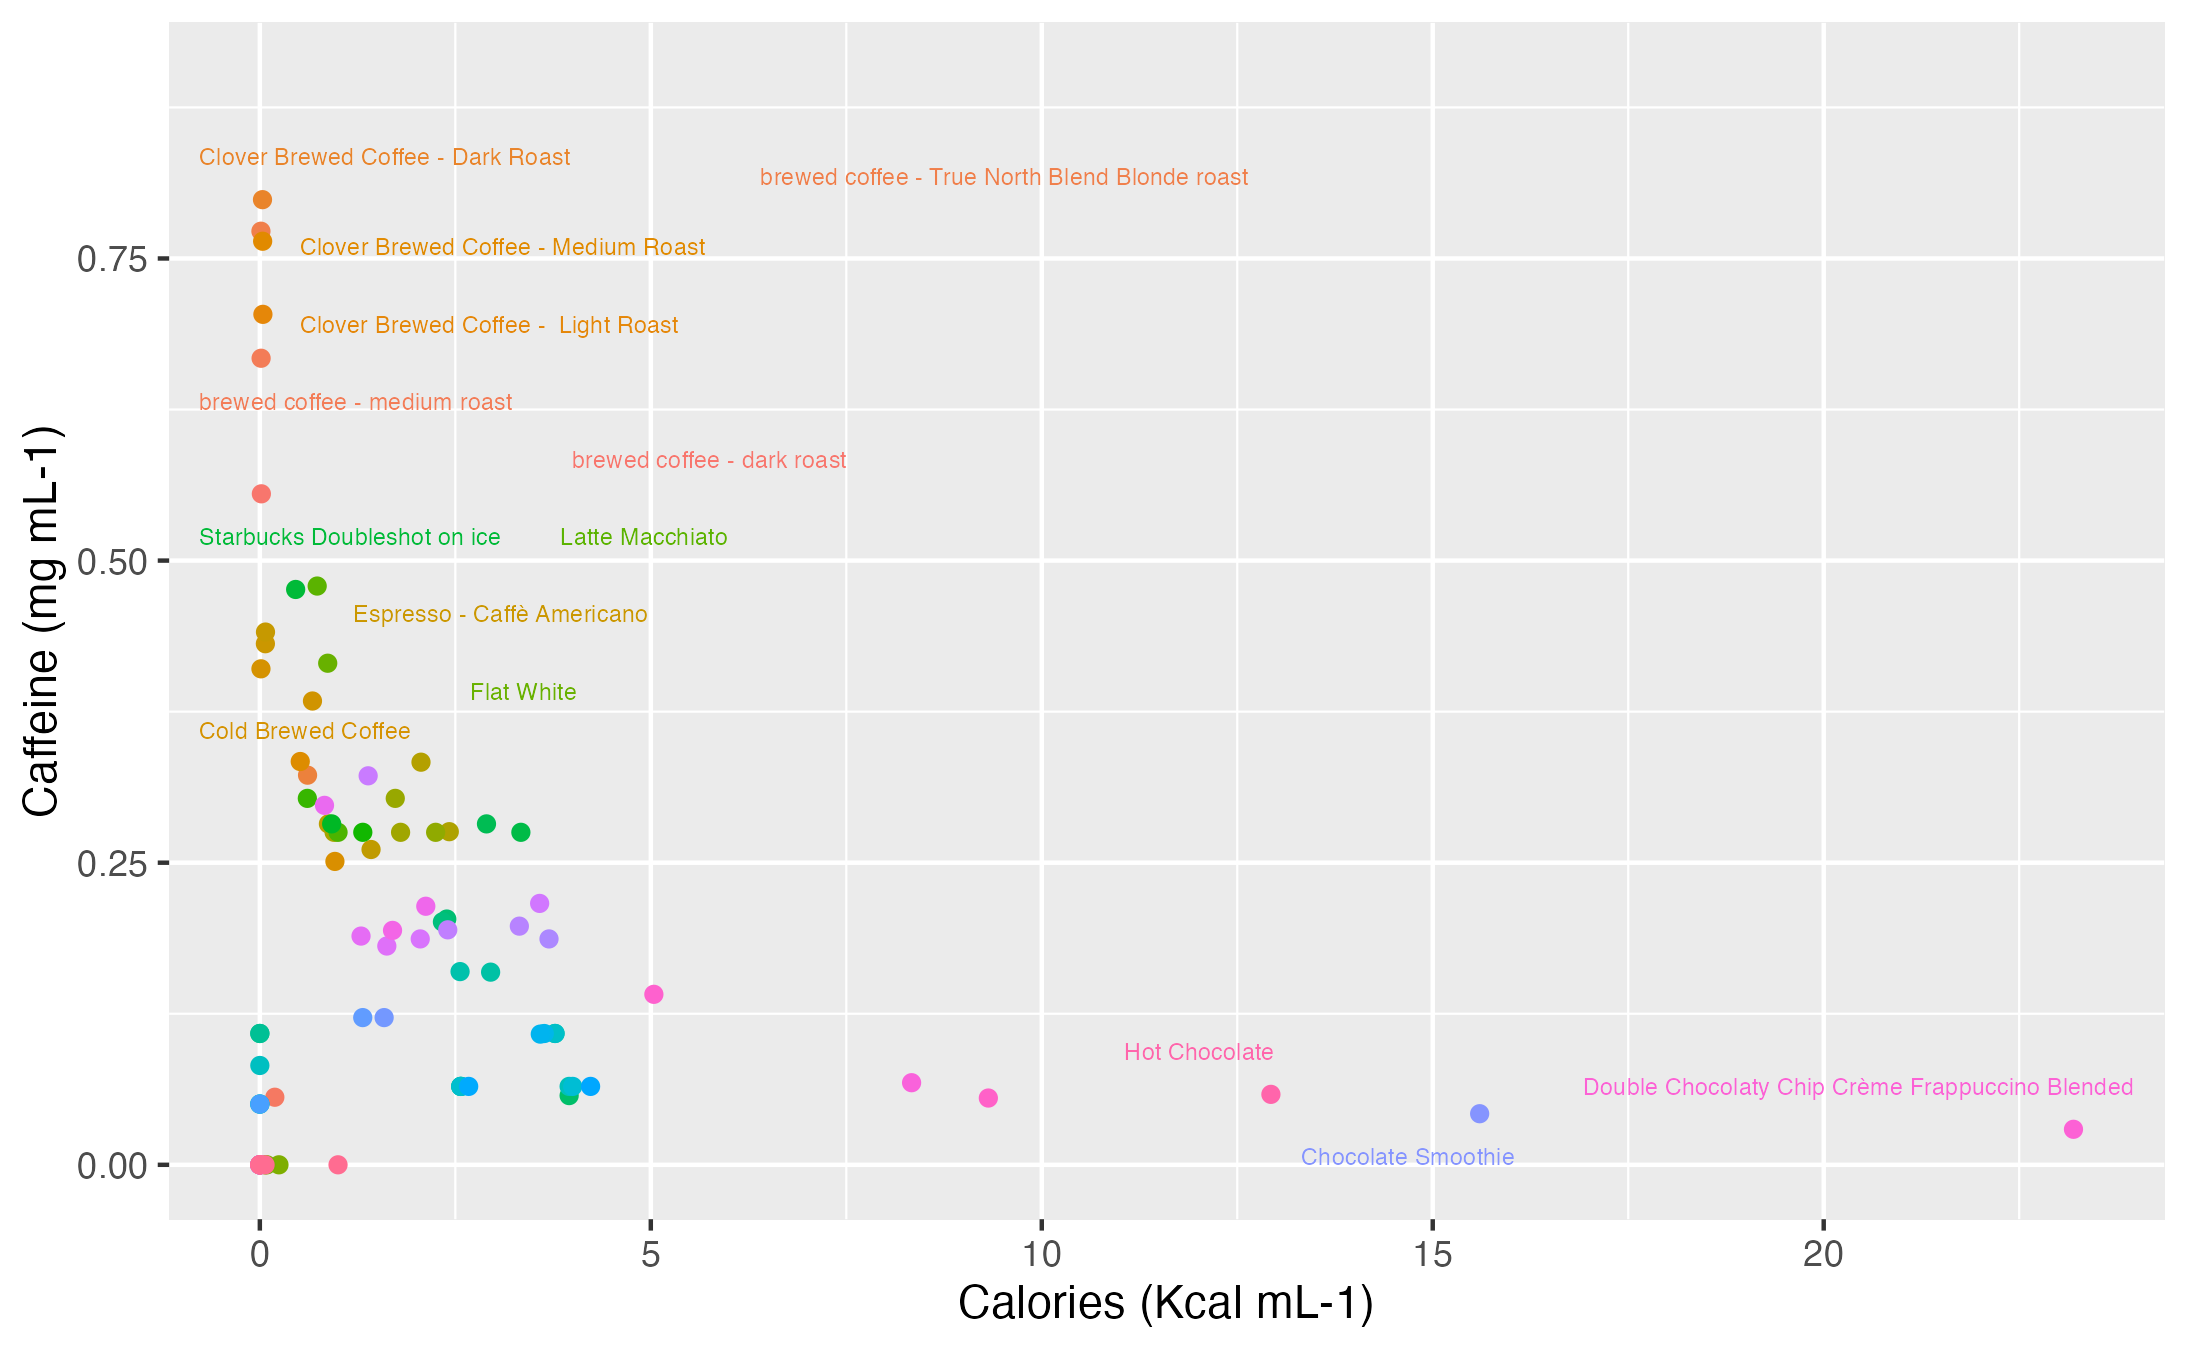
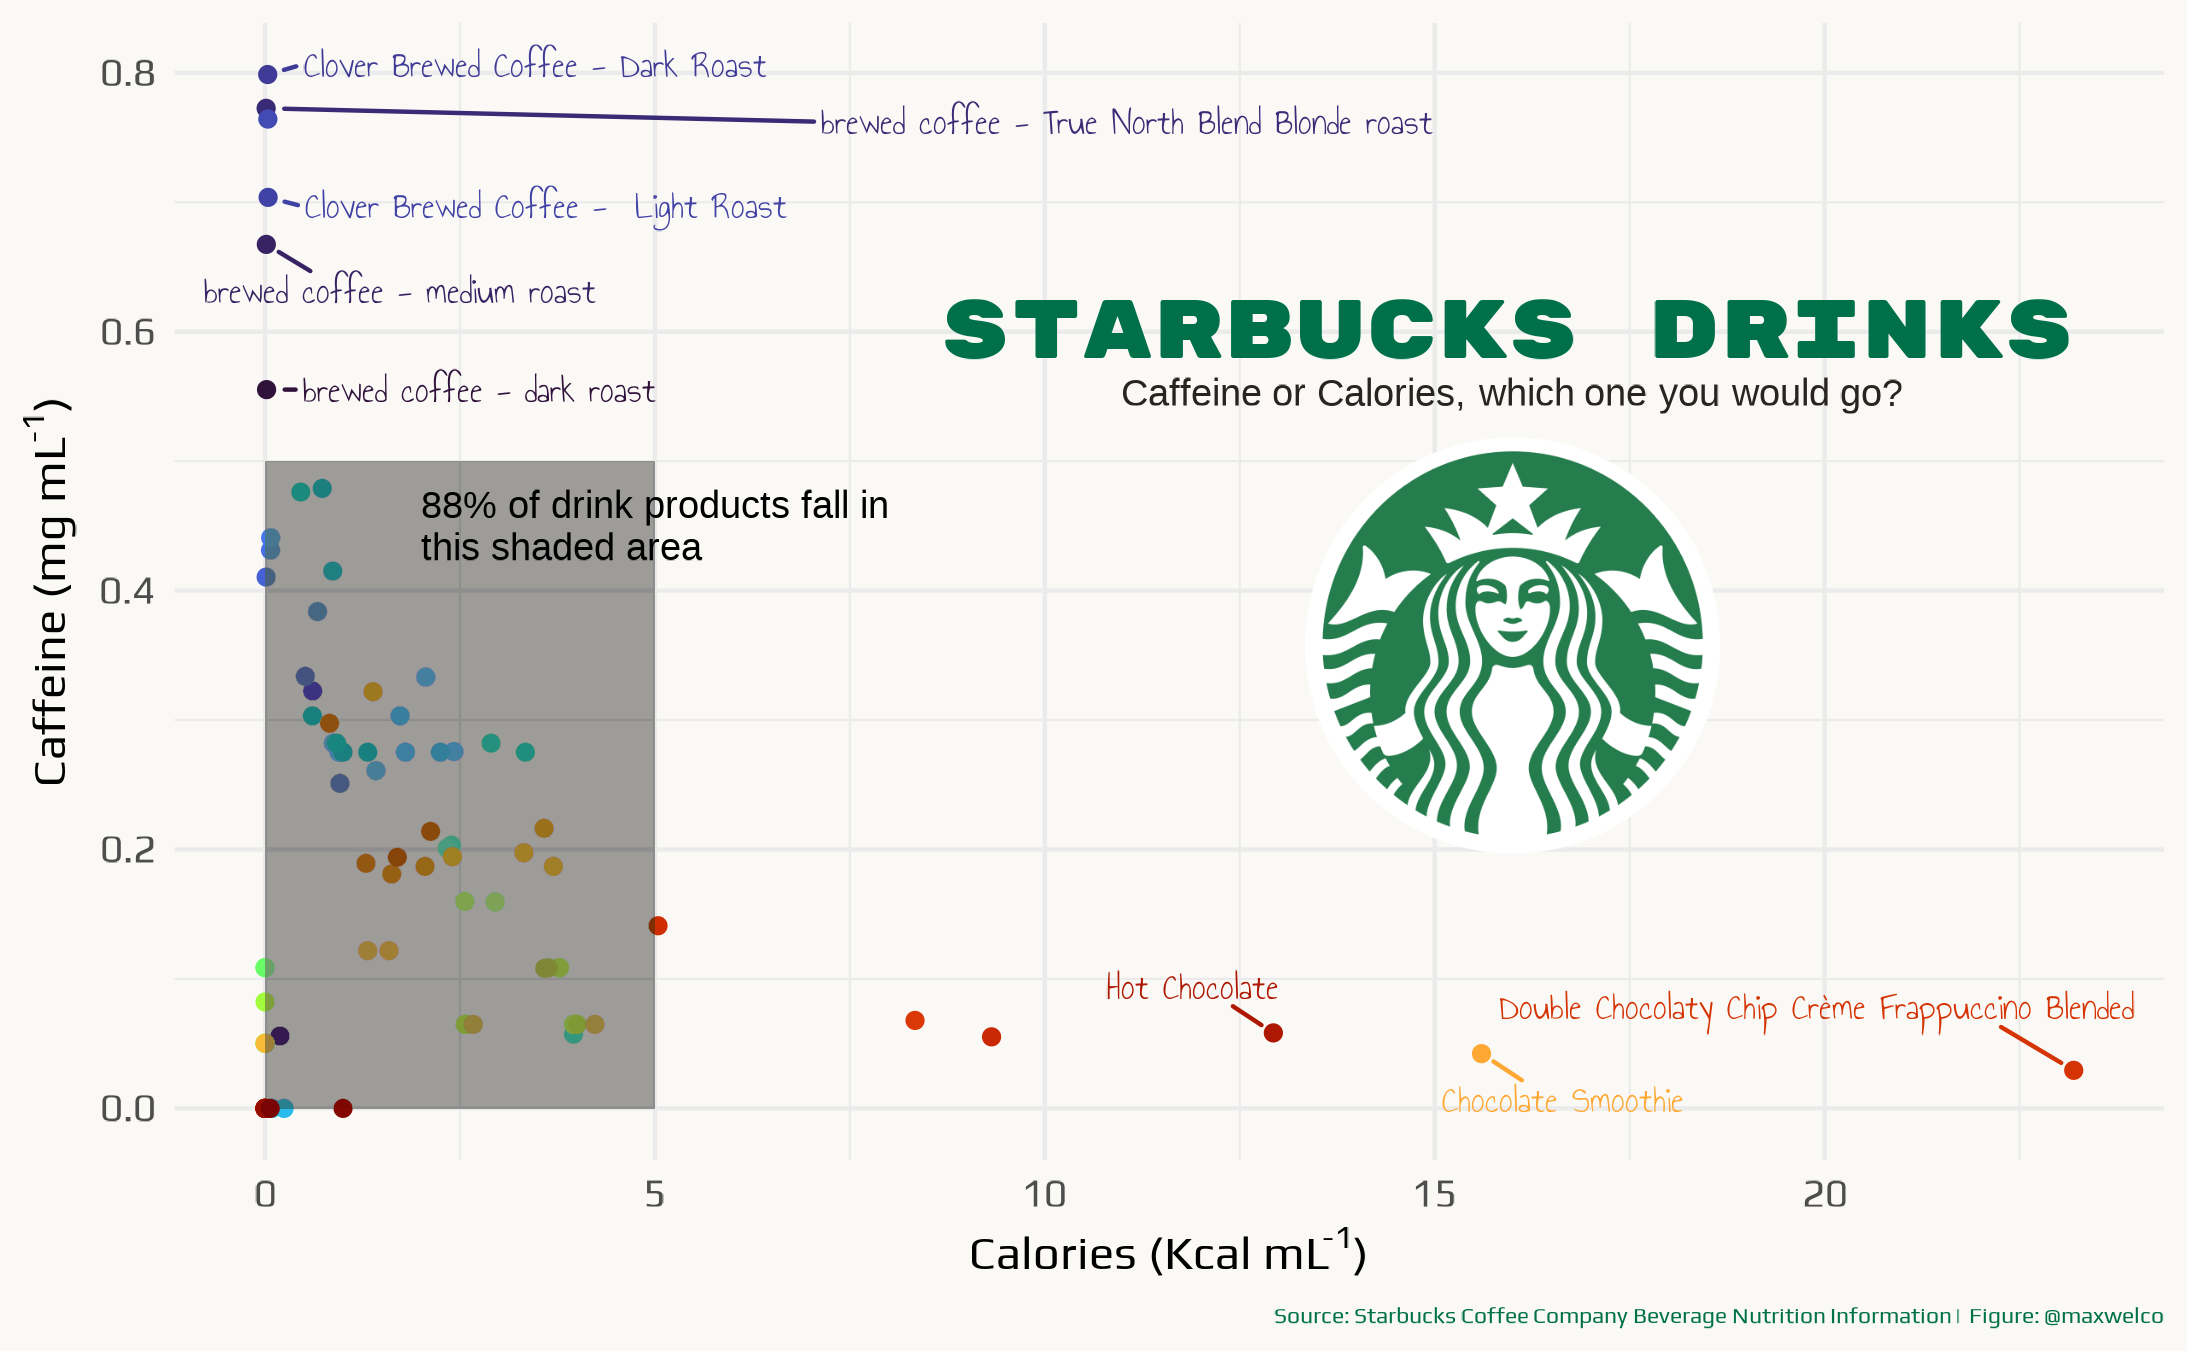
nn

diff --git a/README.md b/README.md
@@ -5,6 +5,10 @@ My participation on [#TidyTuesday challenge](https://github.com/rfordatascience/
 
 ## 2021
 
+### Week 52 - Starbucks drinks
+
+![Map Africa](2021/week_52-starbucks/fig_52.png)
+
 ### Week 46 - Learning with afrilearndata
 
 ![Map Africa](2021/week_46-afmap/fig_46.png)
